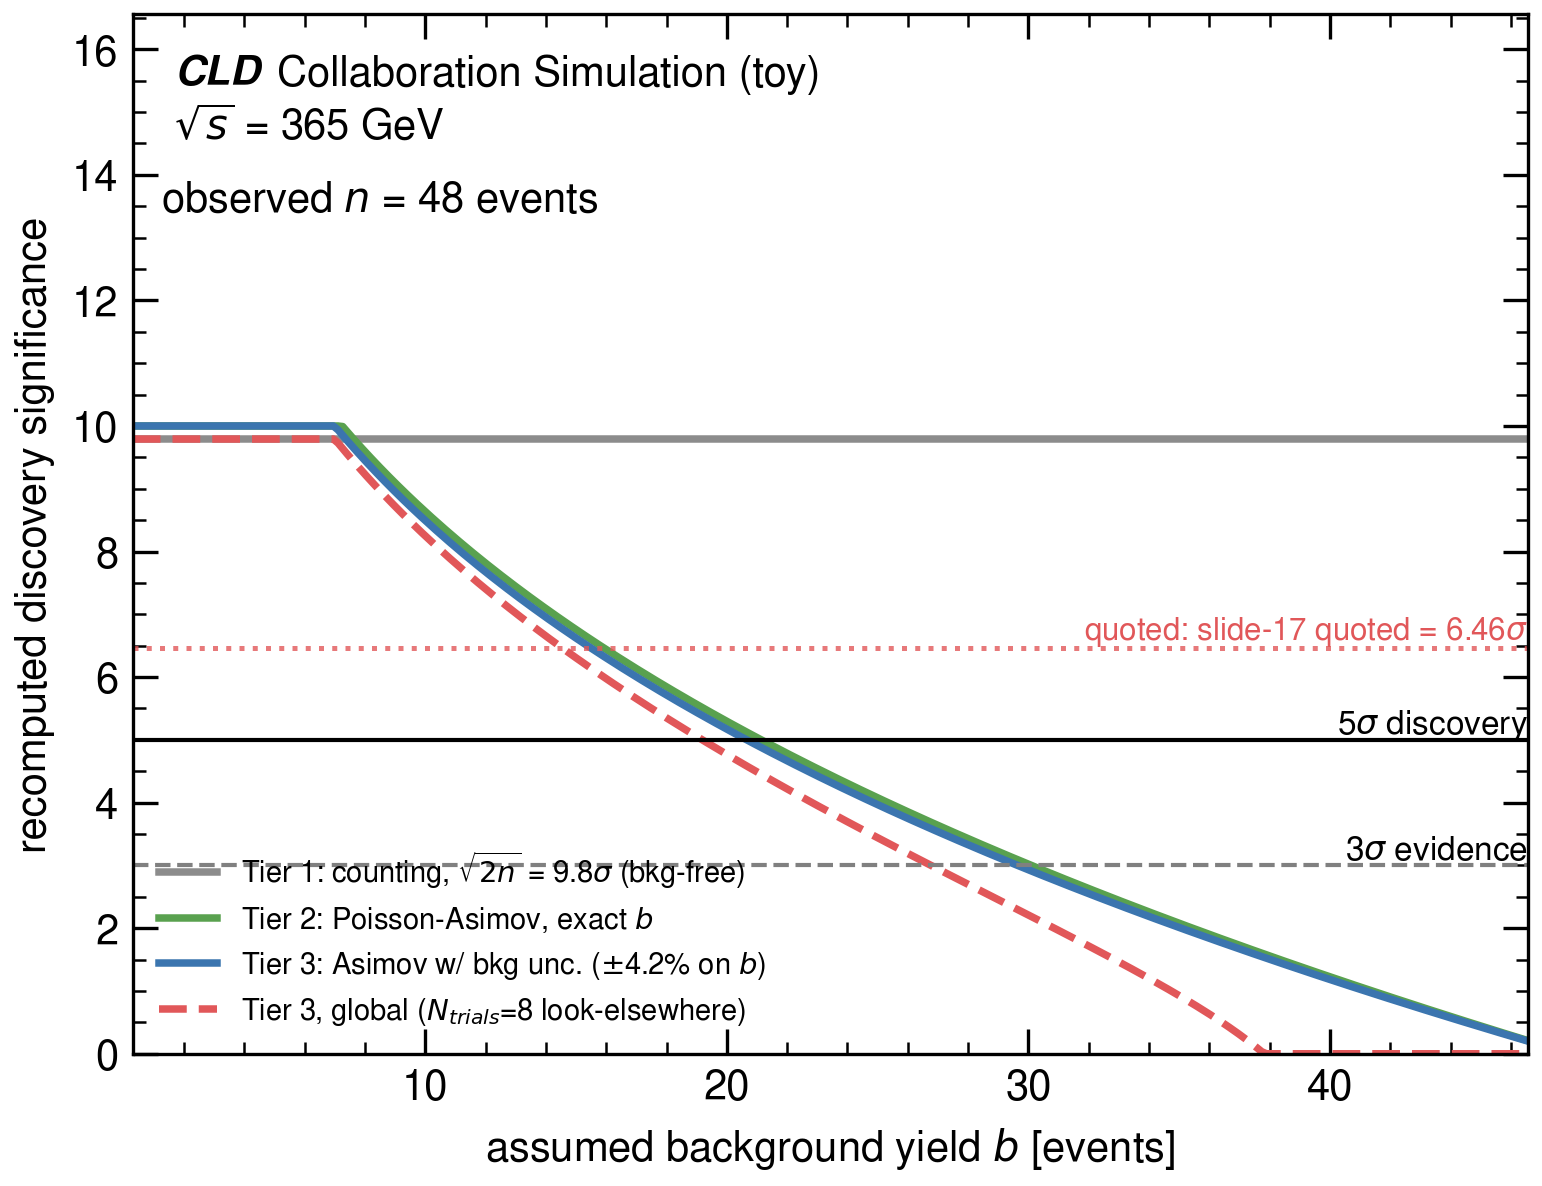
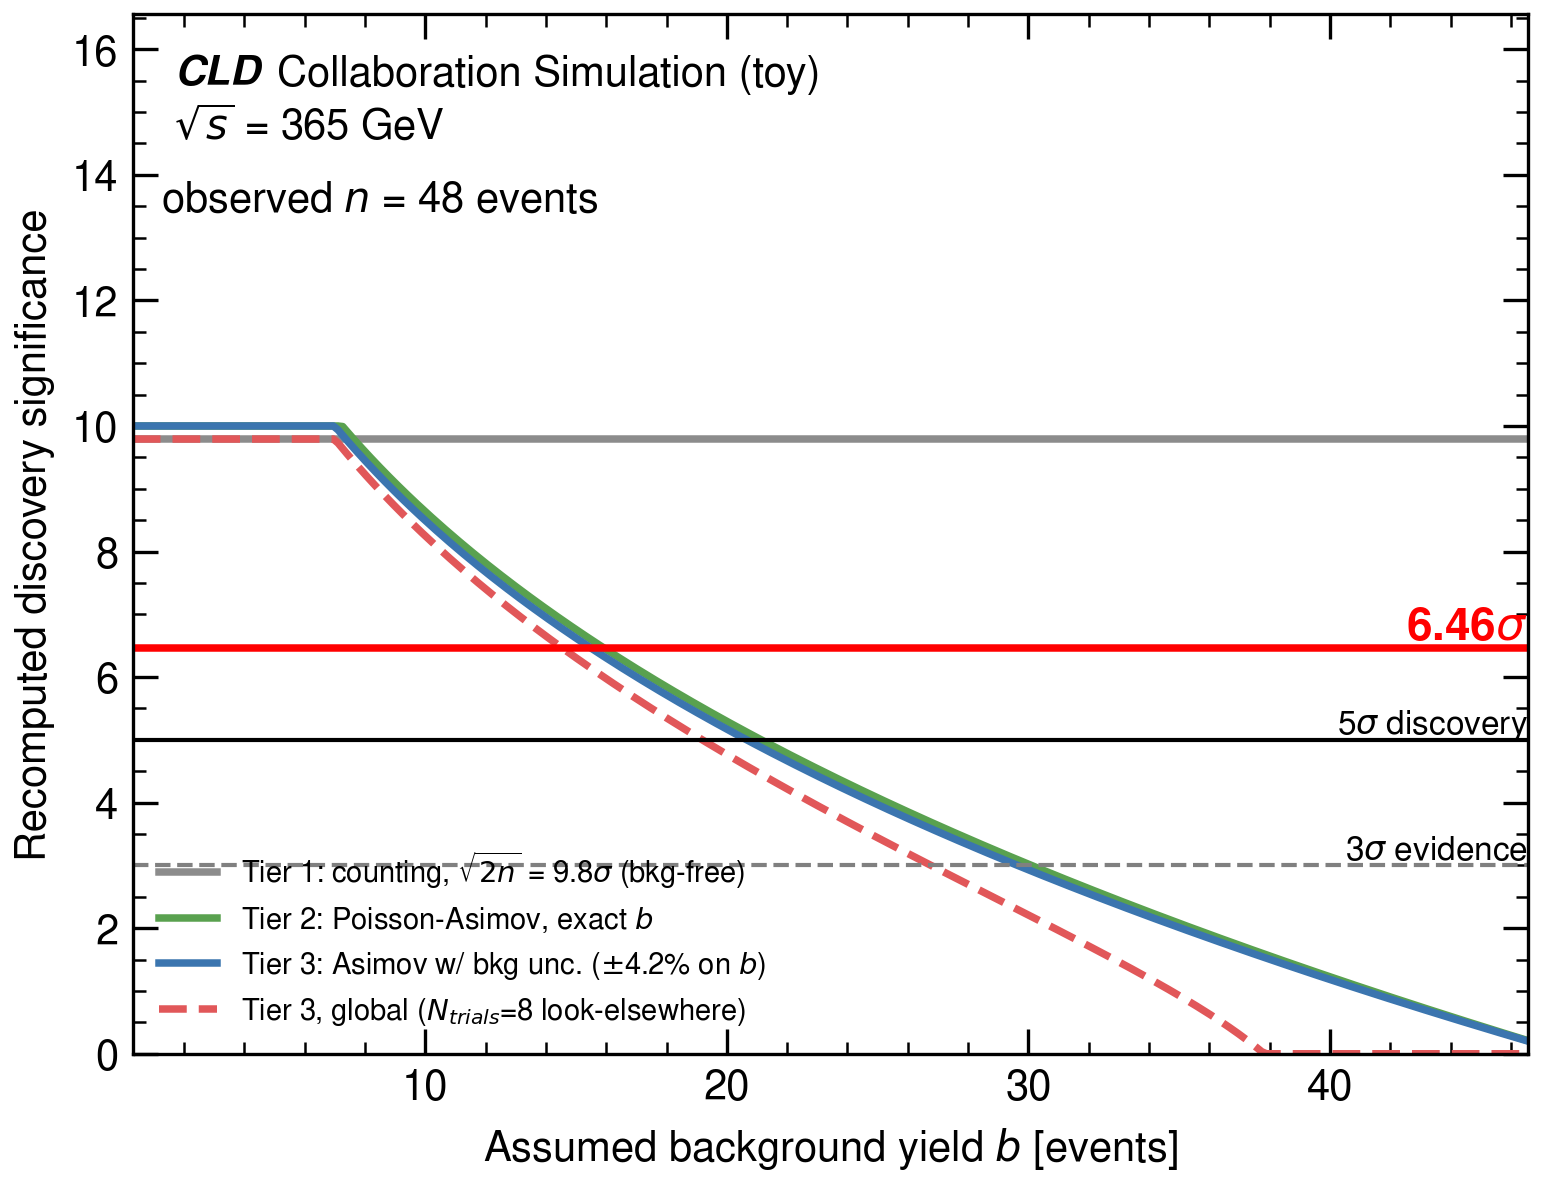
Simplify 365 GeV significance annotation, capitalize plain-text axis labels
- 365 GeV significance-hierarchy plot: single quoted value now drawn as a
  bold solid red 6.46sigma line (was a small dotted "quoted: slide-17
  quoted=" label); 91 GeV plot (3 quoted values) unchanged.
- Capitalized axis labels that are plain English text (not a physics
  formula/variable), across both scripts.

Changed region(s): [[0.0934, 0.4992, 0.9961, 0.5616], [0.3113, 0.9359, 0.7782, 0.9983], [0.0, 0.1872, 0.0311, 0.7487]]

diff --git a/src/interpret_bsm.py b/src/interpret_bsm.py
@@ -109,7 +109,7 @@ def single_histogram_plot(values, xrange, xlabel, energy_gev, outpath, colour_ke
 
     plot = puma.HistogramPlot(
         **style.puma_kwargs(
-            energy_gev, ylabel="toy events / bin", xlabel=xlabel, figsize=(6, 5),
+            energy_gev, ylabel="Toy events / bin", xlabel=xlabel, figsize=(6, 5),
             leg_loc="upper right" if vline is None else "lower right",
         )
     )
@@ -141,7 +141,7 @@ def pairing_comparison_plot(naive_values, constrained_values, xrange, xlabel, en
     constrained_counts, _ = np.histogram(constrained_values, bins=edges)
 
     plot = puma.HistogramPlot(
-        **style.puma_kwargs(energy_gev, ylabel="toy events / bin", xlabel=xlabel,
+        **style.puma_kwargs(energy_gev, ylabel="Toy events / bin", xlabel=xlabel,
                              figsize=(6, 5), leg_loc="upper right")
     )
     plot.add(
@@ -220,14 +220,20 @@ def significance_hierarchy_plot(n_obs, event_topology, quoted_sigmas, energy_gev
     ax.text(b_scan[-1], 5.1, "5$\\sigma$ discovery", fontsize=8, ha="right")
     ax.axhline(3, color="gray", ls="--", lw=1)
     ax.text(b_scan[-1], 3.1, "3$\\sigma$ evidence", fontsize=8, ha="right")
+    single = len(quoted_sigmas) == 1
     for name, val in quoted_sigmas.items():
-        ax.axhline(val, color=style.PALETTE["h1"], ls=":", lw=1.2, alpha=0.8)
-        ax.text(b_scan[-1], val + 0.15, f"quoted: {name} = {val}$\\sigma$", fontsize=7.5,
-                color=style.PALETTE["h1"], ha="right")
+        if single:
+            ax.axhline(val, color="red", ls="-", lw=1.8)
+            ax.text(b_scan[-1], val + 0.15, f"{val}$\\sigma$", fontsize=11,
+                    color="red", ha="right", fontweight="bold")
+        else:
+            ax.axhline(val, color=style.PALETTE["h1"], ls=":", lw=1.2, alpha=0.8)
+            ax.text(b_scan[-1], val + 0.15, f"quoted: {name} = {val}$\\sigma$", fontsize=7.5,
+                    color=style.PALETTE["h1"], ha="right")
     ax.set_xlim(b_scan[0], b_scan[-1])
     ax.set_ylim(0, max([z1, *quoted_sigmas.values()]) * 1.3)
-    ax.set_xlabel(r"assumed background yield $b$ [events]")
-    ax.set_ylabel("recomputed discovery significance")
+    ax.set_xlabel(r"Assumed background yield $b$ [events]")
+    ax.set_ylabel("Recomputed discovery significance")
     ax.legend(fontsize=7, loc="lower left")
     style.cld_atlasify(ax, energy_gev)
     style.annotate_note(ax, rf"observed $n$ = {n_obs:.0f} events")

diff --git a/src/interpret_sm.py b/src/interpret_sm.py
@@ -115,7 +115,7 @@ def cutflow_bar_plot(proc_label, colour_key, cuts, energy_gev, outpath):
     ax.set_xticks(x)
     ax.set_xticklabels(labels, rotation=30, ha="right", fontsize=9)
     ax.set_ylim(0, 1.2)
-    ax.set_ylabel("cumulative efficiency (toy, assumed per cut)")
+    ax.set_ylabel("Cumulative efficiency (toy, assumed per cut)")
     ax.legend(fontsize=9, loc="upper right")
     style.cld_atlasify(ax, energy_gev)
     style.savefig(fig, outpath)
@@ -233,7 +233,7 @@ def lepton_pt_turnon_plot(outpath):
     plot = puma.VarVsEffPlot(
         mode="sig_eff",
         **style.puma_kwargs(
-            "160 & 365", xlabel="true lepton $p_T$ [GeV]", ylabel="efficiency of $p_T$ > 20 GeV cut",
+            "160 & 365", xlabel="True lepton $p_T$ [GeV]", ylabel="Efficiency of $p_T$ > 20 GeV cut",
             figsize=(6, 5), grid=True, logy=False, ymin=0, ymax=1.15,
         ),
     )
@@ -263,7 +263,7 @@ def btag_efficiency_comparison_plot(outpath):
            color=[style.PALETTE["X1"], style.PALETTE["X3"]], capsize=6, width=0.5)
     ax.axhline(nominal_eff, color="gray", ls=":", lw=1)
     ax.set_ylim(0, 1.05)
-    ax.set_ylabel(rf"b-tag efficiency at WP={sl.BTAG_WP} (toy, $\pm${sl.BTAG_PER_BJET*100:.0f}% syst./b-jet)")
+    ax.set_ylabel(rf"B-tag efficiency at WP={sl.BTAG_WP} (toy, $\pm${sl.BTAG_PER_BJET*100:.0f}% syst./b-jet)")
     style.cld_atlasify(ax, "160 & 365")
     style.savefig(fig, outpath)
     plt.close(fig)
@@ -278,7 +278,7 @@ def gap_panel(labels, fractions, energy_gev, outpath, note=None):
     fig, ax = plt.subplots(figsize=(6, 4.5))
     colours = list(style.PALETTE.values())[: len(labels)]
     ax.barh(labels, fractions, color=colours)
-    ax.set_xlabel("hypothesised / expected fraction [%]")
+    ax.set_xlabel("Hypothesised / expected fraction [%]")
     style.cld_atlasify(ax, energy_gev)
     style.savefig(fig, outpath)
     plt.close(fig)
